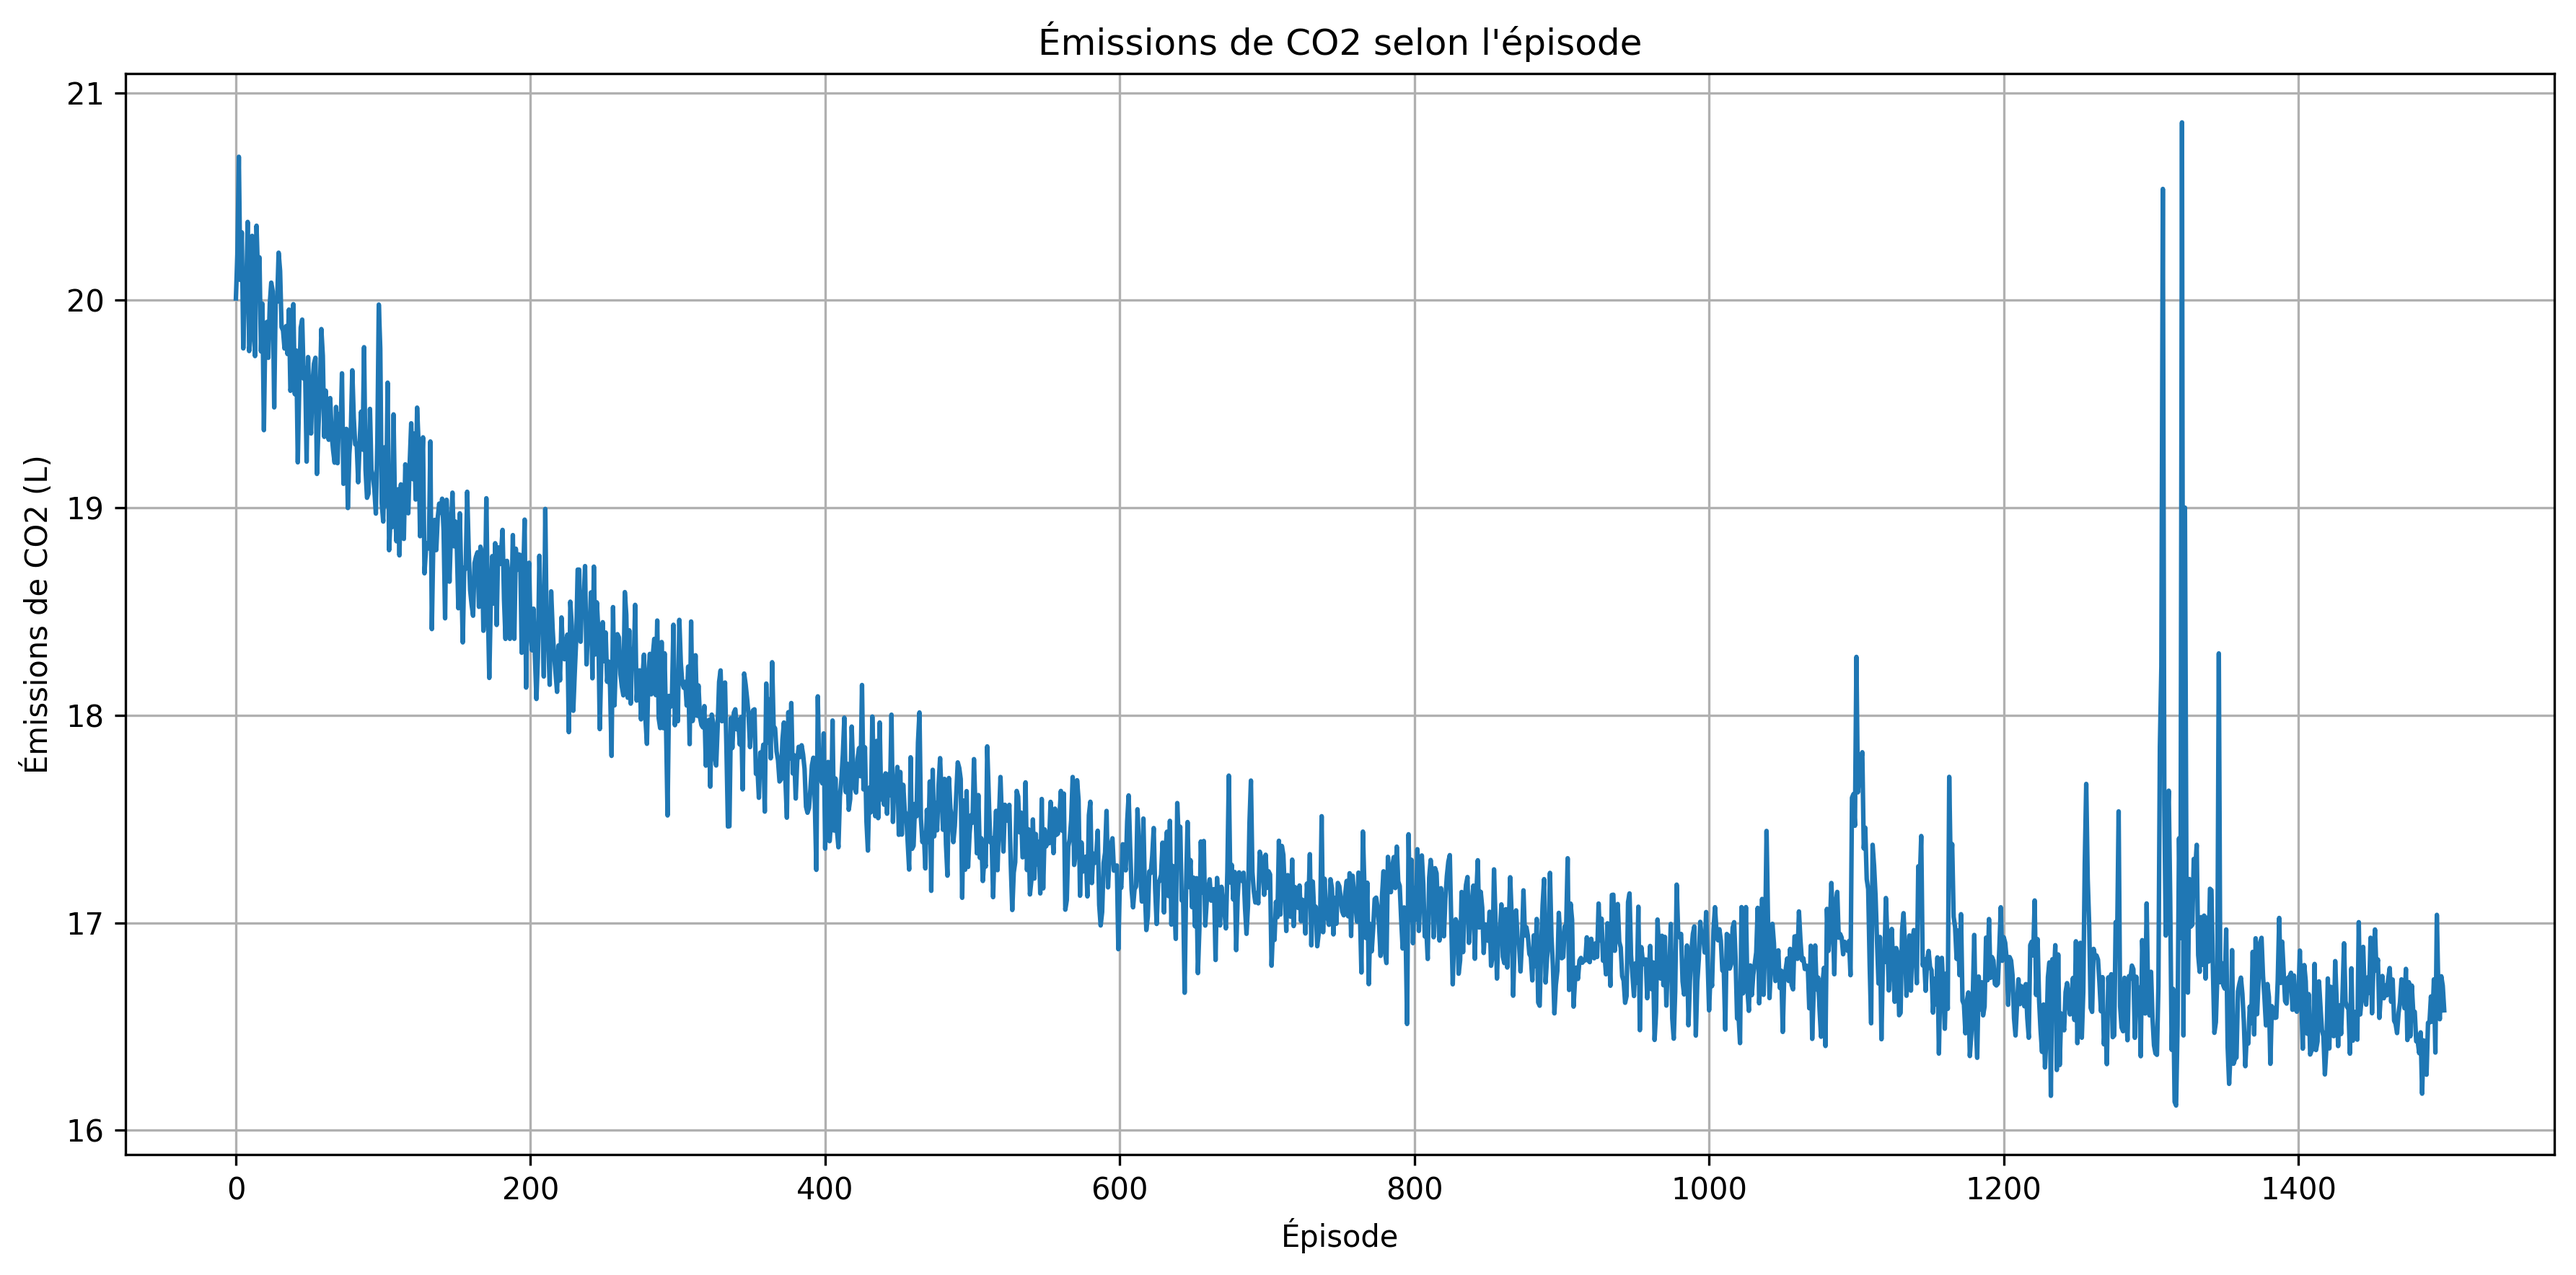
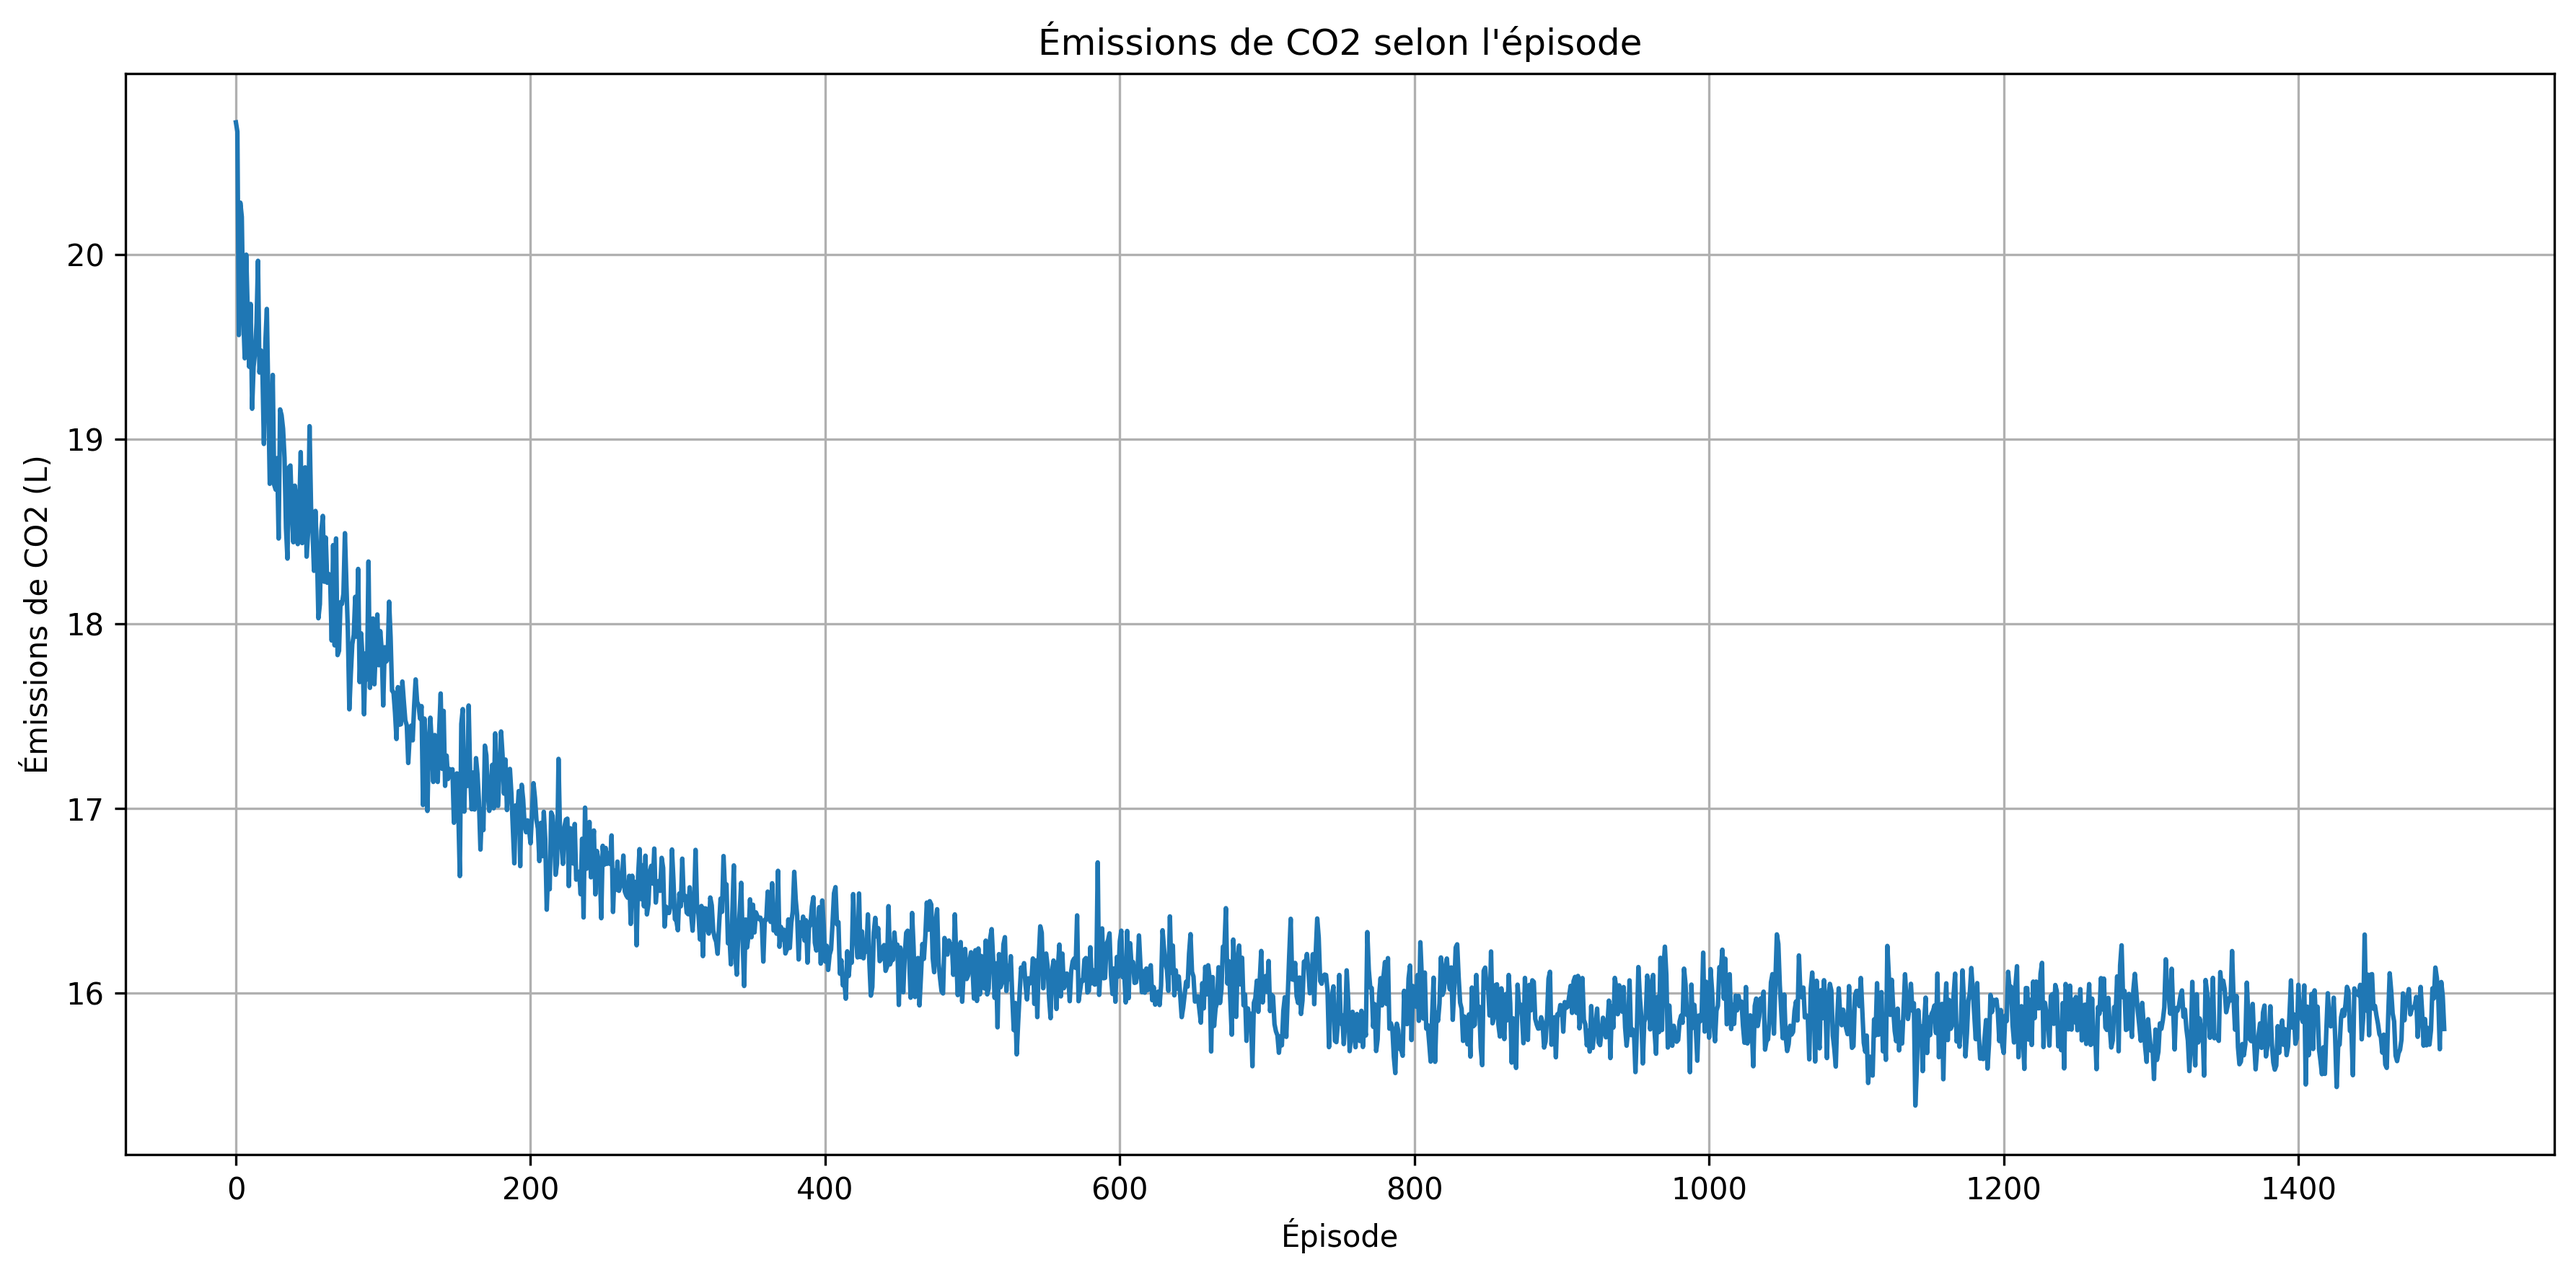
Fixed wait time

Changed region(s): [[0.0622, 0.1555, 0.9636, 0.871]]

diff --git a/simauto/demoCycles.py b/simauto/demoCycles.py
@@ -24,8 +24,7 @@ device = T.device("cuda" if T.cuda.is_available() else "cpu")
 
 # Create environment and agent
 env = gym.make("Intersection-v0", render_mode=None, step_length=6)
-light_duration = 3
-countdown = 5
+countdown = 1
 n = 0
 
 # Run one episode for demo
@@ -53,7 +52,7 @@ for episode in range(n_episode):
             if n > 5:
                 n = 0
             action = light_cycle(n)
-            countdown = 5
+            countdown = 1
         next_obs, reward, terminated, truncated, _ = env.step(action)
         total_reward += reward
         env.render()

diff --git a/simauto/sim.py b/simauto/sim.py
@@ -402,7 +402,8 @@ class CarRecord:
         if isclose(self.speed, 0, rel_tol=0.1):
             self.wait_time += delta_time
         else:
-            self.wait_time = max(0, self.wait_time - delta_time * 2)
+            pass
+            #self.wait_time = max(0, self.wait_time - delta_time * 2)
 
         if -0.1 < self.speed < 0.1 or self.speed < previous_speed:
             # Fuel consumption idle = 0.6 L/h

diff --git a/simauto/intersection.py b/simauto/intersection.py
@@ -89,7 +89,7 @@ class IntersectionEnv(gym.Env):
 
         self.mean_waits = []
 
-        self.episode_end_threshold = 130 # in numbers of cars passed
+        self.episode_end_threshold = 2000 # in numbers of cars passed
 
         self.action_space = spaces.Discrete(6)
         self.observation_space = gym.spaces.Dict({

diff --git a/simauto/test.py b/simauto/test.py
@@ -25,7 +25,7 @@ episode_epsilons = []
 episode_mean_wait = []
 episode_emissions = []
 total_steps = 0
-n_episode = 200
+n_episode = 1500
 for episode in range(n_episode):
     obs, _ = env.reset()
     state = state_tensor(obs)
